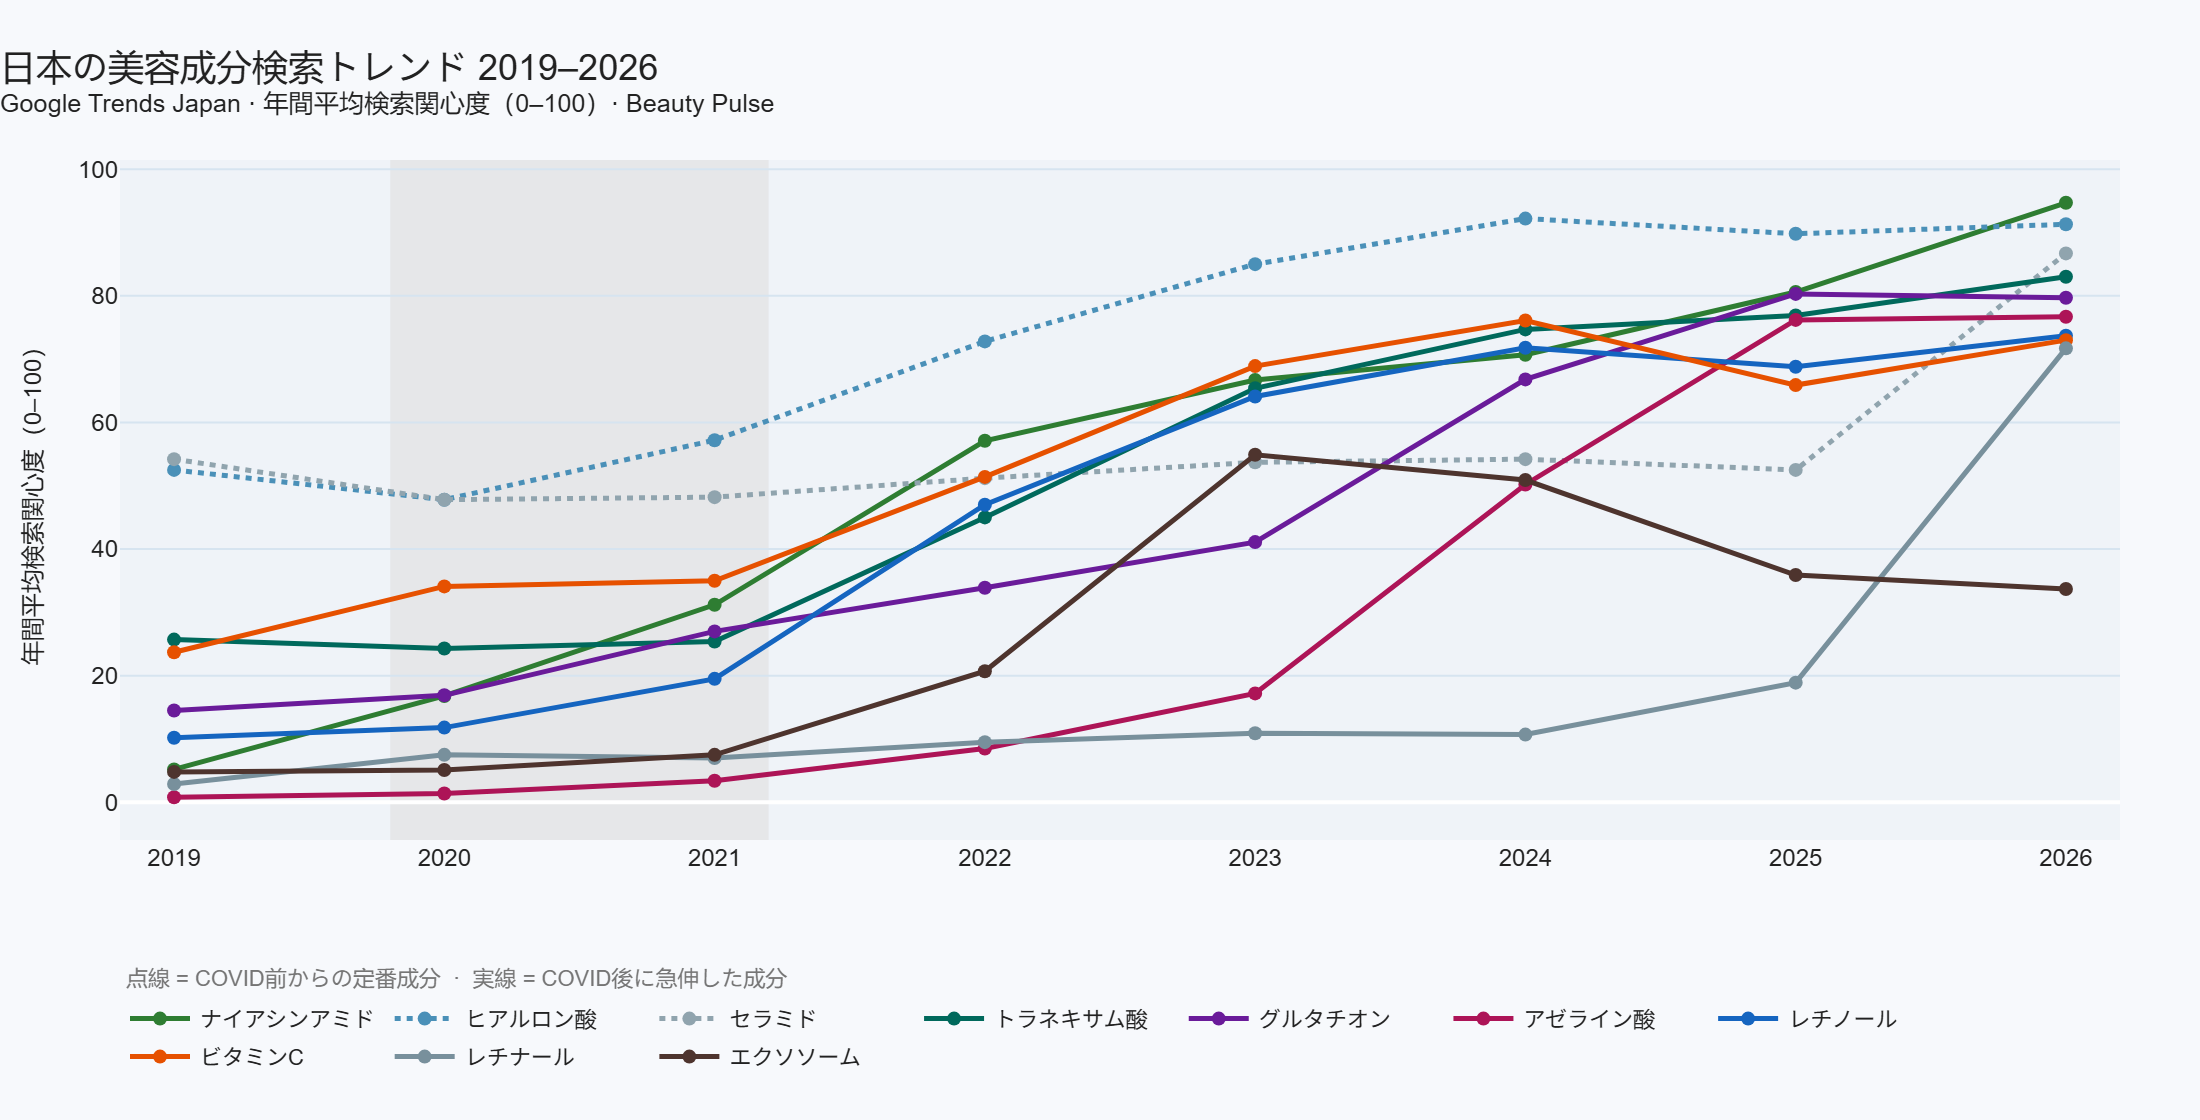
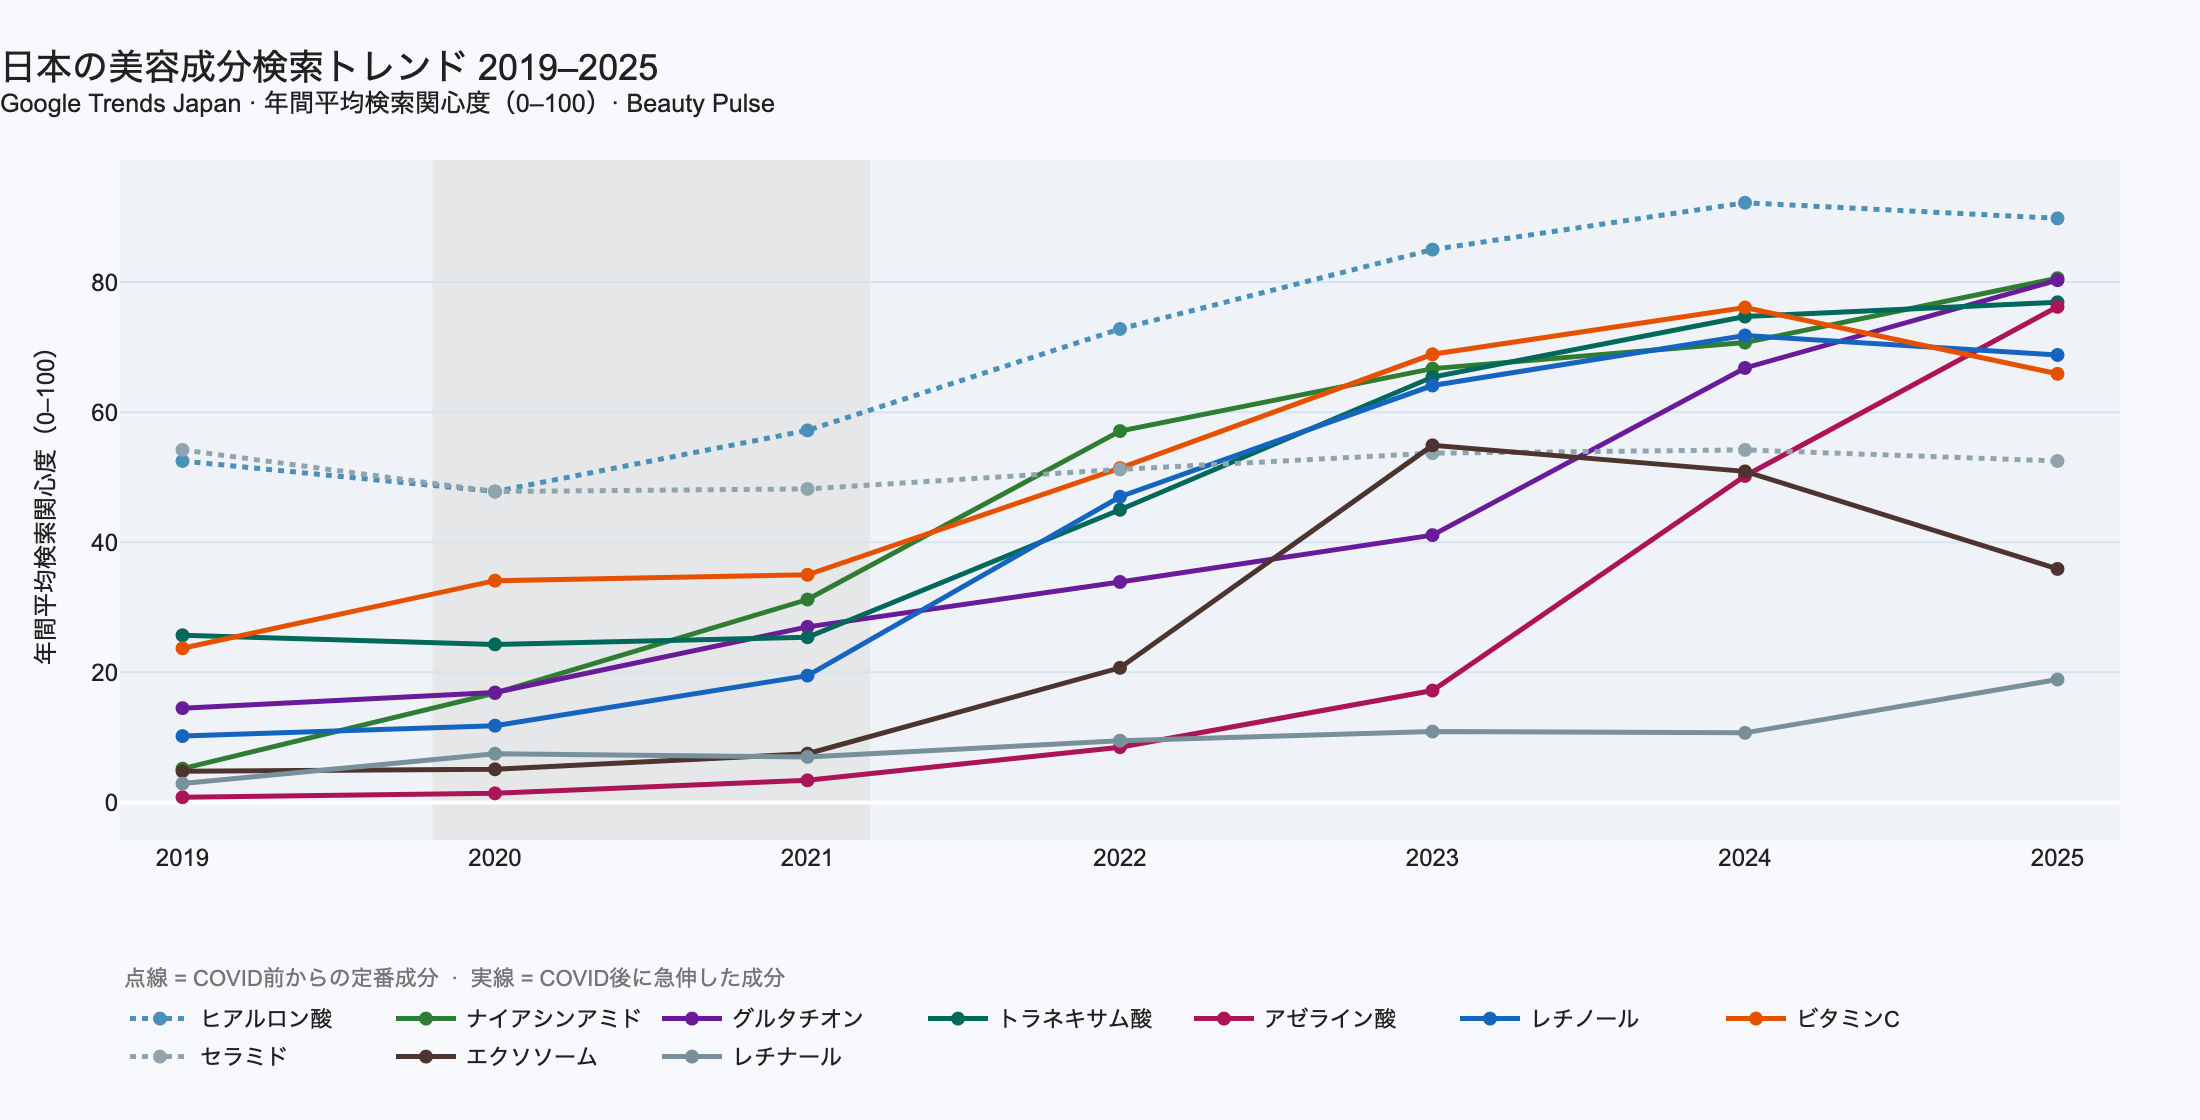
Put the exported charts on the dashboard's window and merge the two scripts
The export scripts averaged 2026 alongside full years and titled the chart
2019-2026. 2026 holds 6 of 12 points, so the final marker read 93.7 for
niacinamide where the dashboard reports 81 for 2025 — two published figures
off the same CSV disagreeing because they used different windows.

Select full calendar years with the same rule compute_headline uses (>= 12
points in the year) rather than a hardcoded cutoff, and derive the title range,
legend order and x-axis from the window instead of naming 2026 three times.

The EN and JP scripts were ~85% identical, which is why the window had to be
wrong in two places at once; they are now one script with --lang en|jp.
Both PNGs regenerated.

diff --git a/export_ingredient_chart.py b/export_ingredient_chart.py
@@ -1,20 +1,40 @@
-import pandas as pd
-import plotly.graph_objects as go
+"""Export the ingredient-search chart as a PNG, in English or Japanese.
+
+    python export_ingredient_chart.py --lang en   ->  ingredient_surge_linkedin.png
+    python export_ingredient_chart.py --lang jp   ->  ingredient_surge_jp.png
+
+Window: full calendar years only, selected the same way compute_headline() in
+dashboard/streamlit_app.py selects them (>= 12 points in the year). The source
+CSV carries a partial current year; averaging it against full years would put a
+figure on the chart that the dashboard does not report, and beauty search is
+seasonal enough that a half-year mean is not comparable to a full one.
+"""
+
+import argparse
 from pathlib import Path
 
-ASSETS = Path("dashboard/assets")
-df = pd.read_csv(ASSETS / "nb07_ingredient_surge.csv", parse_dates=["week_start"])
-df["year"] = df["week_start"].dt.year
-df_yr = df[df["year"] <= 2026].groupby(["year","term"])["interest"].mean().reset_index()
+import pandas as pd
+import plotly.graph_objects as go
+
+ASSETS = Path(__file__).resolve().parent / "dashboard" / "assets"
 
 ESTABLISHED = ["ヒアルロン酸", "セラミド"]
-EN_NAMES = {
-    "ナイアシンアミド": "Niacinamide", "レチノール": "Retinol",
-    "グルタチオン": "Glutathione", "ビタミンC 美容": "Vitamin C",
-    "トラネキサム酸": "Tranexamic acid", "アゼライン酸": "Azelaic acid",
-    "エクソソーム": "Exosomes", "ヒアルロン酸": "Hyaluronic acid",
-    "セラミド": "Ceramide", "レチナール": "Retinal",
+
+# Label per language; the JP column differs from the term only where the search
+# term carries a disambiguating suffix ("ビタミンC 美容").
+LABELS = {
+    "ナイアシンアミド": {"en": "Niacinamide",     "jp": "ナイアシンアミド"},
+    "レチノール":       {"en": "Retinol",         "jp": "レチノール"},
+    "グルタチオン":     {"en": "Glutathione",     "jp": "グルタチオン"},
+    "ビタミンC 美容":   {"en": "Vitamin C",       "jp": "ビタミンC"},
+    "トラネキサム酸":   {"en": "Tranexamic acid", "jp": "トラネキサム酸"},
+    "アゼライン酸":     {"en": "Azelaic acid",    "jp": "アゼライン酸"},
+    "エクソソーム":     {"en": "Exosomes",        "jp": "エクソソーム"},
+    "ヒアルロン酸":     {"en": "Hyaluronic acid", "jp": "ヒアルロン酸"},
+    "セラミド":         {"en": "Ceramide",        "jp": "セラミド"},
+    "レチナール":       {"en": "Retinal",         "jp": "レチナール"},
 }
+
 COLORS = {
     "ナイアシンアミド": "#2E7D32", "レチノール": "#1565C0",
     "グルタチオン": "#6A1B9A", "ビタミンC 美容": "#E65100",
@@ -23,58 +43,98 @@ COLORS = {
     "セラミド": "#90A4AE", "レチナール": "#78909C",
 }
 
-fig = go.Figure()
-fig.add_vrect(x0=2019.8, x1=2021.2, fillcolor="#E0E0E0",
-              opacity=0.6, layer="below", line_width=0,
-              annotation_text="COVID", annotation_position="top left",
-              annotation_font_size=11, annotation_font_color="#888888")
+COPY = {
+    "en": {
+        "outfile": "ingredient_surge_linkedin.png",
+        "covid":   "COVID",
+        "title":   "Japanese Beauty: Ingredient Search Surge {y0}–{y1}"
+                   "<br><sup>Google Trends Japan · avg annual search interest "
+                   "(0–100) · Beauty Pulse</sup>",
+        "yaxis":   "Avg search interest (0–100)",
+        "footnote": "Dashed = established pre-COVID  ·  Solid = post-COVID breakouts",
+    },
+    "jp": {
+        "outfile": "ingredient_surge_jp.png",
+        "covid":   "COVID\n（2020-21）",
+        "title":   "日本の美容成分検索トレンド {y0}–{y1}"
+                   "<br><sup>Google Trends Japan · 年間平均検索関心度（0–100）"
+                   "· Beauty Pulse</sup>",
+        "yaxis":   "年間平均検索関心度（0–100）",
+        "footnote": "点線 = COVID前からの定番成分  ·  実線 = COVID後に急伸した成分",
+    },
+}
 
-# Sort ingredients by their 2026 average interest, highest to lowest
-order_2026 = (
-    df_yr[df_yr["year"] == 2026]
-    .groupby("term")["interest"].mean()
-    .sort_values(ascending=False)
-    .index.tolist()
-)
-# Fall back to any terms missing 2026 data
-all_terms_ordered = order_2026 + [t for t in df_yr["term"].unique() if t not in order_2026]
 
-for term in all_terms_ordered:
-    d = df_yr[df_yr["term"] == term]
-    en = EN_NAMES.get(term, term)
-    fig.add_trace(go.Scatter(
-        x=d["year"], y=d["interest"].round(1),
-        name=en,
-        mode="lines+markers",
-        line=dict(color=COLORS.get(term, "#90A4AE"), width=2.5,
-                  dash="dot" if term in ESTABLISHED else "solid"),
-        marker=dict(size=7),
-        hovertemplate=f"{en}: %{{y:.1f}}<extra></extra>",
-    ))
+def full_calendar_years(df: pd.DataFrame) -> pd.Index:
+    """Years with a complete set of observations — the dashboard's rule."""
+    per_year = df.groupby("year")["week_start"].nunique()
+    return per_year[per_year >= 12].index
 
-fig.update_layout(
-    paper_bgcolor="#F7F9FC", plot_bgcolor="#EFF3F8",
-    font=dict(family="sans-serif", color="#212121"),
-    height=560, width=1100,
-    margin=dict(l=60, r=40, t=80, b=140),
-    title=dict(
-        text="Japanese Beauty: Ingredient Search Surge 2019–2026<br><sup>Google Trends Japan · avg annual search interest (0–100) · Beauty Pulse</sup>",
-        font=dict(size=18), x=0.0, xanchor="left",
-    ),
-    legend=dict(orientation="h", yanchor="top", y=-0.22,
-                xanchor="left", x=0, font=dict(size=11),
-                bgcolor="rgba(0,0,0,0)"),
-    xaxis=dict(showgrid=False, dtick=1, range=[2018.8, 2026.2],
-               tickfont=dict(size=12)),
-    yaxis=dict(gridcolor="#D6E4F0",
-               title=dict(text="Avg search interest (0–100)", font=dict(size=12))),
-    annotations=[dict(
-        text="Dashed = established pre-COVID  ·  Solid = post-COVID breakouts",
-        xref="paper", yref="paper", x=0, y=-0.18,
-        showarrow=False, font=dict(size=11, color="#757575"),
-        xanchor="left",
-    )],
-)
 
-fig.write_image("ingredient_surge_linkedin.png", scale=2)
-print("Saved: ingredient_surge_linkedin.png")
+def build(lang: str) -> Path:
+    copy = COPY[lang]
+
+    df = pd.read_csv(ASSETS / "nb07_ingredient_surge.csv", parse_dates=["week_start"])
+    df["year"] = df["week_start"].dt.year
+    df = df[df["year"].isin(full_calendar_years(df))]
+
+    df_yr = df.groupby(["year", "term"])["interest"].mean().reset_index()
+    y0, y1 = int(df_yr["year"].min()), int(df_yr["year"].max())
+
+    # Legend order: highest interest in the final full year first.
+    ordered = (df_yr[df_yr["year"] == y1]
+               .groupby("term")["interest"].mean()
+               .sort_values(ascending=False).index.tolist())
+    ordered += [t for t in df_yr["term"].unique() if t not in ordered]
+
+    fig = go.Figure()
+    fig.add_vrect(x0=2019.8, x1=2021.2, fillcolor="#E0E0E0",
+                  opacity=0.6, layer="below", line_width=0,
+                  annotation_text=copy["covid"], annotation_position="top left",
+                  annotation_font_size=11, annotation_font_color="#888888")
+
+    for term in ordered:
+        d = df_yr[df_yr["term"] == term]
+        label = LABELS.get(term, {}).get(lang, term)
+        fig.add_trace(go.Scatter(
+            x=d["year"], y=d["interest"].round(1),
+            name=label,
+            mode="lines+markers",
+            line=dict(color=COLORS.get(term, "#90A4AE"), width=2.5,
+                      dash="dot" if term in ESTABLISHED else "solid"),
+            marker=dict(size=7),
+            hovertemplate=f"{label}: %{{y:.1f}}<extra></extra>",
+        ))
+
+    fig.update_layout(
+        paper_bgcolor="#F7F9FC", plot_bgcolor="#EFF3F8",
+        font=dict(family="sans-serif", color="#212121"),
+        height=560, width=1100,
+        margin=dict(l=60, r=40, t=80, b=140),
+        title=dict(text=copy["title"].format(y0=y0, y1=y1),
+                   font=dict(size=18), x=0.0, xanchor="left"),
+        legend=dict(orientation="h", yanchor="top", y=-0.22,
+                    xanchor="left", x=0, font=dict(size=11),
+                    bgcolor="rgba(0,0,0,0)"),
+        xaxis=dict(showgrid=False, dtick=1, range=[y0 - 0.2, y1 + 0.2],
+                   tickfont=dict(size=12)),
+        yaxis=dict(gridcolor="#D6E4F0",
+                   title=dict(text=copy["yaxis"], font=dict(size=12))),
+        annotations=[dict(
+            text=copy["footnote"],
+            xref="paper", yref="paper", x=0, y=-0.18,
+            showarrow=False, font=dict(size=11, color="#757575"),
+            xanchor="left",
+        )],
+    )
+
+    out = Path(__file__).resolve().parent / copy["outfile"]
+    fig.write_image(out, scale=2)
+    return out
+
+
+if __name__ == "__main__":
+    ap = argparse.ArgumentParser(description=__doc__)
+    ap.add_argument("--lang", choices=("en", "jp"), default="en")
+    args = ap.parse_args()
+    print(f"Saved: {build(args.lang).name}")
